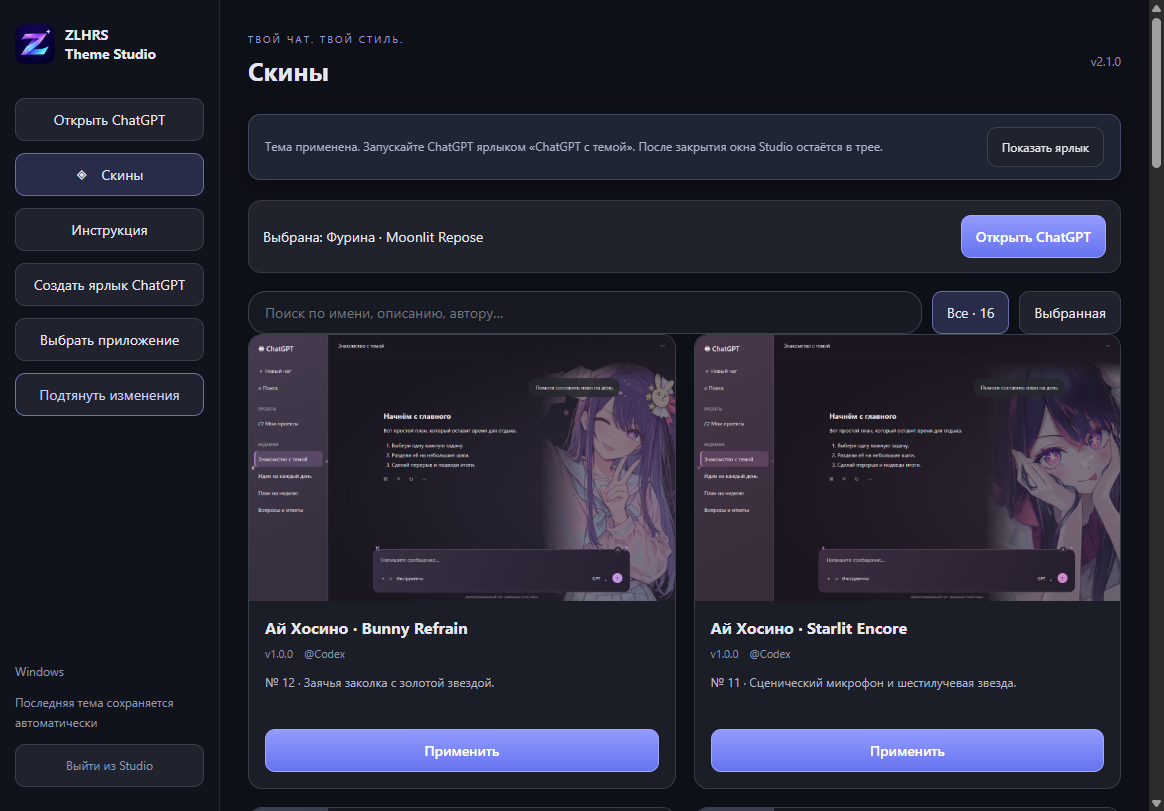
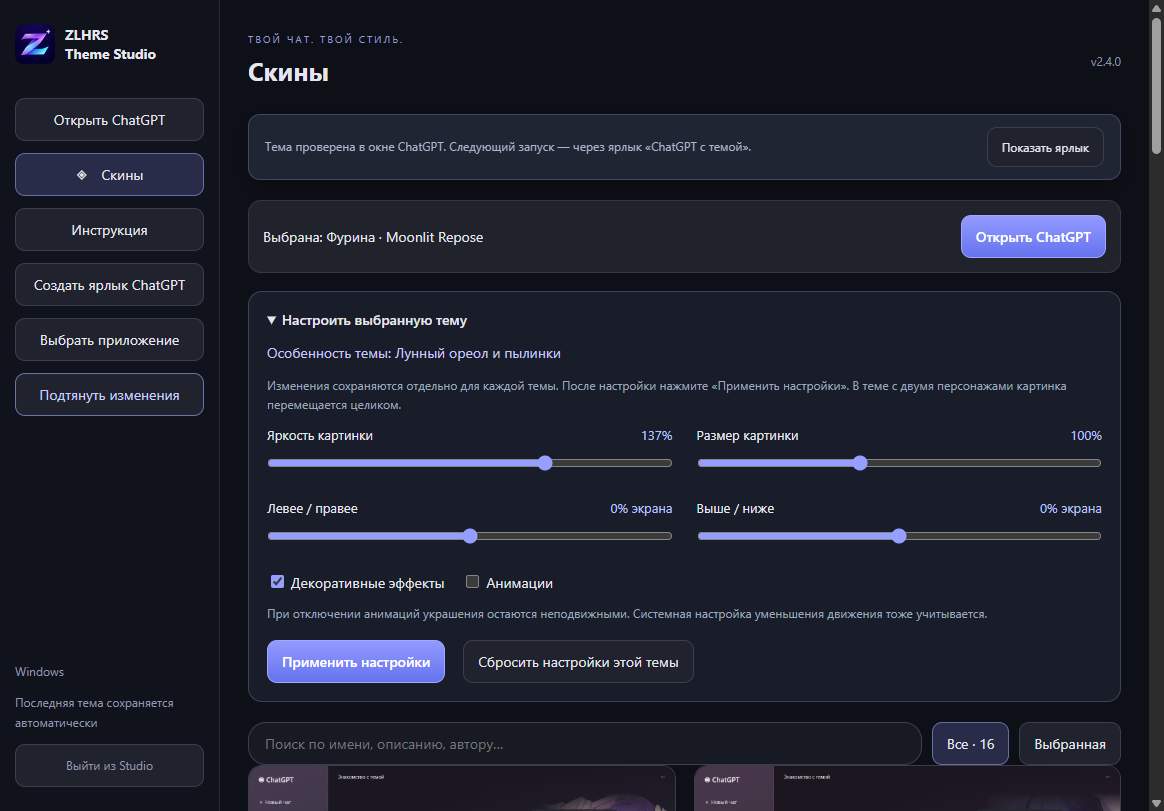
Add individual theme effects and persistent appearance controls

diff --git a/desktop/index.html b/desktop/index.html
@@ -1,7 +1,12 @@
 <!doctype html><html lang="ru"><head><meta charset="utf-8"><meta name="viewport" content="width=device-width,initial-scale=1"><meta http-equiv="Content-Security-Policy" content="default-src 'self'; img-src 'self' file:; style-src 'self'; script-src 'self'; connect-src 'none'"><title>ZLHRS Theme Studio</title><link rel="stylesheet" href="style.css"></head><body>
 <aside><div class="brand"><img src="../assets/studio-logo.png" alt=""><strong>ZLHRS<br>Theme Studio</strong></div><button id="launch">Открыть ChatGPT</button><button id="skins-tab" class="selected" aria-selected="true">◈　Скины</button><button id="help-tab" aria-selected="false">Инструкция</button><button id="shortcut">Создать ярлык ChatGPT</button><button id="choose">Выбрать приложение</button><button id="update">Подтянуть изменения</button><div class="aside-bottom"><p id="platform"></p><p>Последняя тема сохраняется автоматически</p><button id="quit">Выйти из Studio</button></div></aside>
-<main><header><div><span class="eyebrow">ТВОЙ ЧАТ. ТВОЙ СТИЛЬ.</span><h1 id="page-title">Скины</h1></div><span id="version"></span></header><div class="notice" role="status"><span id="status"></span><button id="reveal" hidden>Показать ярлык</button></div><div id="skins-page"><div class="current"><span id="current"></span><button class="primary" id="open">Открыть ChatGPT</button></div><div class="tools"><input id="search" placeholder="Поиск по имени, описанию, автору…" aria-label="Поиск тем"><button id="all" class="selected">Все · 16</button><button id="active">Выбранная</button></div><section id="cards" aria-label="Темы"></section></div><section id="help-page" hidden>
-<div class="help-card"><h2>Как поставить тему</h2><p>Распакуйте готовый ZIP целиком и откройте ZLHRS Theme Studio.exe. Установка не нужна. Все файлы папки должны оставаться рядом.</p><ol><li>Полностью закройте ChatGPT перед первым запуском с темой.</li><li>Откройте вкладку <strong>«Скины»</strong> и нажмите <strong>«Применить»</strong> на понравившейся теме.</li><li>Нажмите <strong>«Создать ярлык ChatGPT»</strong>. Кнопка <strong>«Показать ярлык»</strong> поможет найти его.</li><li>В дальнейшем открывайте <strong>«ChatGPT с темой»</strong> с рабочего стола — последняя тема включится сама.</li></ol></div>
+<main><header><div><span class="eyebrow">ТВОЙ ЧАТ. ТВОЙ СТИЛЬ.</span><h1 id="page-title">Скины</h1></div><span id="version"></span></header><div class="notice" role="status"><span id="status"></span><button id="reveal" hidden>Показать ярлык</button></div><div id="skins-page"><div class="current"><span id="current"></span><button class="primary" id="open">Открыть ChatGPT</button></div><details class="appearance-panel" open><summary>Настроить выбранную тему</summary><p id="effect-description"></p><p class="settings-hint">Изменения сохраняются отдельно для каждой темы. После настройки нажмите «Применить настройки». В теме с двумя персонажами картинка перемещается целиком.</p><div class="appearance-grid">
+<label>Яркость картинки <output id="brightness-value">100%</output><input id="brightness" type="range" min="40" max="180" value="100"></label>
+<label>Размер картинки <output id="size-value">100%</output><input id="size" type="range" min="60" max="160" value="100"></label>
+<label>Левее / правее <output id="x-value">0</output><input id="x" type="range" min="-40" max="40" value="0"></label>
+<label>Выше / ниже <output id="y-value">0</output><input id="y" type="range" min="-40" max="40" value="0"></label>
+</div><div class="appearance-switches"><label><input id="effects" type="checkbox" checked> Декоративные эффекты</label><label><input id="animations" type="checkbox" checked> Анимации</label></div><p class="settings-hint">При отключении анимаций украшения остаются неподвижными. Системная настройка уменьшения движения тоже учитывается.</p><div class="appearance-actions"><button id="save-appearance" class="primary">Применить настройки</button><button id="reset-appearance">Сбросить настройки этой темы</button><span id="appearance-dirty" role="status"></span></div></details><div class="tools"><input id="search" placeholder="Поиск по имени, описанию, автору…" aria-label="Поиск тем"><button id="all" class="selected">Все · 16</button><button id="active">Выбранная</button></div><section id="cards" aria-label="Темы"></section></div><section id="help-page" hidden>
+<div class="help-card"><h2>Как поставить тему</h2><p>Распакуйте готовый ZIP целиком и откройте ZLHRS Theme Studio.exe. Установка не нужна. Все файлы папки должны оставаться рядом.</p><ol><li>В Windows Studio сама перезапустит ChatGPT, если это необходимо. Сохраните неотправленный текст. На Mac и Linux перед первым применением закройте ChatGPT.</li><li>Откройте вкладку <strong>«Скины»</strong> и нажмите <strong>«Применить»</strong> на понравившейся теме.</li><li>Нажмите <strong>«Создать ярлык ChatGPT»</strong>. Кнопка <strong>«Показать ярлык»</strong> поможет найти его.</li><li>В дальнейшем открывайте <strong>«ChatGPT с темой»</strong> с рабочего стола — последняя тема включится сама.</li></ol></div>
 <div class="help-card"><h2>Как обновиться</h2><p>Нажмите <strong>«Подтянуть изменения»</strong>. Если есть новый выпуск, Studio скачает его, проверит файл, установит и перезапустится. Выбранная тема сохранится.</p><p>Если установлена последняя версия, приложение сообщит об этом и останется открытым. Обновления — готовые выпуски с GitHub, а не незавершённые изменения исходников.</p><p>В Linux при установке DEB система может попросить пароль. Если папка приложения на Mac недоступна для записи, потребуется установить обновление вручную.</p></div>
 <div class="help-card"><h2>Если не запускается</h2><p>Нажмите <strong>«Выбрать приложение»</strong> и укажите установленный ChatGPT. Не выбирайте Codex CLI. Если ChatGPT уже открыт обычным способом, полностью закройте его и повторите запуск здесь.</p><p>Старый значок ChatGPT на панели задач замените новым. Codex App Manager и прежнюю версию Theme Studio закройте, чтобы они не меняли тему одновременно.</p><p>Крестик скрывает Studio в трей. Чтобы полностью завершить работу, нажмите <strong>«Выйти из Studio»</strong>.</p></div>
 </section><footer id="app-path"></footer></main>

diff --git a/desktop/renderer.js b/desktop/renderer.js
@@ -1,6 +1,6 @@
-const $=id=>document.getElementById(id);let state,onlyActive=false,pending=false;
+const $=id=>document.getElementById(id);let state,onlyActive=false,pending=false,appearanceTheme=null,appearanceDirty=false;
 function element(tag,text,className){const el=document.createElement(tag);if(text)el.textContent=text;if(className)el.className=className;return el;}
-function render(next){state=next;const chosen=state.themes.find(t=>t.id===state.selected);$('current').textContent='Выбрана: '+chosen.name;$('status').textContent=state.status;$('reveal').hidden=!state.lastShortcut;$('update').disabled=!!state.updating;$('update').textContent=state.updating?'Обновляем…':'Подтянуть изменения';$('version').textContent='v'+state.version;$('platform').textContent={win32:'Windows',darwin:'macOS',linux:'Linux'}[state.platform]||state.platform;$('app-path').textContent=state.appPath?'Приложение: '+state.appPath:'ChatGPT не найден автоматически. Укажите его кнопкой «Выбрать приложение».';cards();}
+function render(next){state=next;renderAppearance();const chosen=state.themes.find(t=>t.id===state.selected);$('current').textContent='Выбрана: '+chosen.name;$('status').textContent=state.status;$('reveal').hidden=!state.lastShortcut;$('update').disabled=!!state.updating;$('update').textContent=state.updating?'Обновляем…':'Подтянуть изменения';$('version').textContent='v'+state.version;$('platform').textContent={win32:'Windows',darwin:'macOS',linux:'Linux'}[state.platform]||state.platform;$('app-path').textContent=state.appPath?'Приложение: '+state.appPath:'ChatGPT не найден автоматически. Укажите его кнопкой «Выбрать приложение».';cards();}
 function cards(){const query=$('search').value.toLocaleLowerCase();$('cards').replaceChildren();for(const t of state.themes){if(onlyActive&&t.id!==state.selected)continue;if(![t.name,t.description,t.author,t.id].join(' ').toLocaleLowerCase().includes(query))continue;
  const card=element('article',null,'card'+(t.id===state.selected?' active':''));const preview=element('button',null,'preview-button');preview.setAttribute('aria-label','Посмотреть '+t.name);const img=element('img');img.src=t.preview;img.alt=t.name;preview.append(img);preview.onclick=()=>{$('preview').querySelector('img').src=t.preview;$('preview').querySelector('p').textContent=t.name+' · демонстрационный чат с настоящими стилями темы';$('preview').showModal();};
  const body=element('div',null,'card-body');body.append(element('h2',t.name),element('div','v'+t.version+'　@'+t.author,'meta'),element('p',t.description,'description'));const apply=element('button',t.id===state.selected?'✓ Выбрана':'Применить','primary');apply.disabled=pending;apply.onclick=()=>applyTheme(t.id);body.append(apply);card.append(preview,body);$('cards').append(card);
@@ -11,3 +11,13 @@ $('search').oninput=cards;$('all').onclick=()=>{onlyActive=false;$('all').classL
 async function runAction(action,message){if(pending||state?.updating)return;pending=true;$('status').textContent=message;try{render(await action());}catch(e){$('status').textContent=e.message;}finally{pending=false;cards();}}
 function page(help){$('skins-page').hidden=help;$('help-page').hidden=!help;$('page-title').textContent=help?'Инструкция':'Скины';for(const [id,active] of [['skins-tab',!help],['help-tab',help]]){$(id).classList.toggle('selected',active);$(id).setAttribute('aria-selected',String(active));}window.scrollTo(0,0);}
 $('skins-tab').onclick=()=>page(false);$('help-tab').onclick=()=>page(true);$('update').onclick=()=>runAction(()=>window.studio.update(),'Проверяем обновления…');$('reveal').onclick=()=>window.studio.reveal();
+
+const appearanceKeys=['brightness','size','x','y'];
+function readAppearance(){return Object.fromEntries([...appearanceKeys.map(key=>[key,Number($(key).value)]),['animations',$('animations').checked],['effects',$('effects').checked]]);}
+function updateAppearanceLabels(){for(const key of appearanceKeys)$(key+'-value').textContent=$(key).value+(['size','brightness'].includes(key)?'%':'% экрана');}
+function setAppearance(value){for(const key of appearanceKeys)$(key).value=value[key];$('animations').checked=value.animations;$('effects').checked=value.effects;updateAppearanceLabels();}
+function renderAppearance(){if(appearanceTheme!==state.selected||!appearanceDirty){setAppearance(state.appearance);appearanceTheme=state.selected;appearanceDirty=false;$('appearance-dirty').textContent='';}$('effect-description').textContent='Особенность темы: '+state.effect;}
+for(const key of [...appearanceKeys,'animations','effects'])$(key).oninput=()=>{appearanceDirty=true;updateAppearanceLabels();$('appearance-dirty').textContent='Есть несохранённые изменения';};
+async function saveAppearance(value){if(pending)return;await runAction(async()=>{const next=await window.studio.appearance(state.selected,value);appearanceDirty=false;return next;},'Сохраняем настройки темы…');}
+$('save-appearance').onclick=()=>saveAppearance(readAppearance());
+$('reset-appearance').onclick=()=>saveAppearance({brightness:100,size:100,x:0,y:0,animations:true,effects:true});

diff --git a/desktop/style.css b/desktop/style.css
@@ -1,3 +1,5 @@
 :root{color-scheme:dark;font:14px 'Segoe UI',system-ui,sans-serif;color:#e6e7ee;background:#0e1017}*{box-sizing:border-box}body{margin:0;display:flex}button,input{font:inherit;color:inherit}button{cursor:pointer;background:#20232d;border:1px solid #3a3f4d;border-radius:10px;padding:11px 14px}button:hover{filter:brightness(1.2)}button:disabled{opacity:.5;cursor:wait}button:focus-visible,input:focus-visible{outline:2px solid #a2a7ff;outline-offset:3px}aside{width:220px;flex-shrink:0;background:#11131c;border-right:1px solid #252936;padding:24px 15px;height:100vh;position:sticky;top:0;display:flex;flex-direction:column;gap:12px}.brand{display:flex;align-items:center;gap:10px;margin-bottom:22px}.brand img{width:40px;height:40px}.aside-bottom{margin-top:auto;font-size:12px;color:#9198ac;line-height:1.6}.aside-bottom button{width:100%}main{flex:1;min-width:0;padding:28px}header{display:flex;align-items:center;justify-content:space-between;margin-bottom:20px}h1{font-size:25px;margin:7px 0}.eyebrow{font-size:10px;letter-spacing:2px;color:#939bd1}#version{font-size:12px;color:#8b92a6}.current{display:flex;align-items:center;justify-content:space-between;gap:12px;background:#20232c;border:1px solid #343845;border-radius:13px;padding:14px;margin-bottom:18px}.primary{background:linear-gradient(#939aff,#6573ee);border-color:#a2a7ff;color:#fff;font-weight:600}.tools{display:flex;gap:10px}.tools input{min-width:80px;flex:1;background:#171a23;border:1px solid #3c404e;border-radius:18px;padding:11px 16px}.selected{background:#292c48;border-color:#676da7}#status{font-size:12px;color:#aeb6cd;line-height:1.6;min-height:20px}#cards{display:grid;grid-template-columns:repeat(2,minmax(0,1fr));gap:18px}.card{background:#1b1e27;border:1px solid #383d49;border-radius:14px;overflow:hidden}.card.active{border-color:#929aff}.preview-button{padding:0;border:0;border-radius:0;display:block;width:100%;background:#11131c}.preview-button img{display:block;width:100%;aspect-ratio:1.6;object-fit:contain}.card-body{padding:16px}.card h2{font-size:16px;margin:0 0 8px}.meta{font-size:11px;color:#8c93a7}.description{color:#b1b5c3;line-height:1.6;min-height:44px;font-size:12px}.card .primary{width:100%}footer{font-size:11px;overflow-wrap:anywhere;color:#777f95;padding:22px 0}dialog{width:min(1150px,94vw);padding:14px;border:1px solid #454b65;background:#141721;border-radius:15px}dialog::backdrop{background:#000b}dialog img{display:block;width:100%;max-height:80vh;object-fit:contain}dialog p{color:#aeb6cd;font-size:12px;margin:12px 0 0}#close-preview{position:absolute;right:22px;top:22px;background:#161822dd}@media(max-width:950px){aside{width:190px}main{padding:20px}.tools{flex-wrap:wrap}.tools input{flex-basis:100%}}
 
 [hidden]{display:none!important}.notice{position:sticky;top:12px;z-index:5;display:flex;align-items:center;justify-content:space-between;gap:12px;padding:12px 16px;margin-bottom:20px;border:1px solid #414763;border-radius:12px;background:#202534;box-shadow:0 6px 20px #0004;min-height:52px}.notice #status{margin:0}.notice button{flex-shrink:0;font-size:12px}.help-card{background:#1b1e27;border:1px solid #383d49;border-radius:14px;padding:22px;margin-bottom:18px;line-height:1.8}.help-card h2{font-size:18px;margin:0 0 12px}.help-card p{color:#b9c1d4}.help-card ol{padding-left:22px}.help-card li{padding:6px 0}aside{overflow-y:auto}#update{border-color:#6974aa;color:#c6ceff}
+
+.appearance-panel{background:#191d29;border:1px solid #3b4259;border-radius:14px;padding:18px;margin-bottom:20px}.appearance-panel summary{cursor:pointer;font-weight:600}.appearance-panel #effect-description{color:#c7c8fa}.settings-hint{font-size:12px;color:#9ea8bd;line-height:1.6}.appearance-grid{display:grid;grid-template-columns:1fr 1fr;gap:16px 24px}.appearance-grid label{font-size:13px}.appearance-grid output{float:right;color:#b7c2ff}.appearance-grid input{width:100%;accent-color:#969eff;margin:12px 0}.appearance-switches,.appearance-actions{display:flex;gap:18px;flex-wrap:wrap;align-items:center;margin-top:16px}.appearance-switches input{accent-color:#969eff}.appearance-actions span{font-size:12px;color:#c3b4e9}

diff --git a/README.md b/README.md
@@ -8,15 +8,15 @@
 
 **Для обычного использования клонировать репозиторий не нужно.** Скачайте готовую сборку для своей системы. Git, Node.js и Codex App Manager для её запуска не нужны. Совместимый ChatGPT должен быть установлен отдельно.
 
-Прямые ссылки на **версию 2.3.2**:
+Прямые ссылки на **версию 2.4.0**:
 
 | Система | Скачать | Как запустить |
 | --- | --- | --- |
-| **Windows x64** | [Готовая папка ZIP](https://github.com/ZLHRS/codex-anime-themes/releases/download/v2.3.2/ZLHRS-Theme-Studio-2.3.2-win-x64-portable.zip) | Распакуйте всю папку и откройте **ZLHRS Theme Studio.exe**. Установка не нужна. |
-| **Mac — Apple Silicon (M1/M2/M3/M4 и новее)** | [ZIP для Apple Silicon](https://github.com/ZLHRS/codex-anime-themes/releases/download/v2.3.2/ZLHRS-Theme-Studio-2.3.2-mac-arm64.zip) | Распакуйте архив, перенесите **ZLHRS Theme Studio.app** в «Программы» и откройте. |
-| **Mac — Intel** | [ZIP для Intel](https://github.com/ZLHRS/codex-anime-themes/releases/download/v2.3.2/ZLHRS-Theme-Studio-2.3.2-mac-x64.zip) | Распакуйте архив, перенесите **ZLHRS Theme Studio.app** в «Программы» и откройте. |
-| **Linux x64 — без установки** | [AppImage](https://github.com/ZLHRS/codex-anime-themes/releases/download/v2.3.2/ZLHRS-Theme-Studio-2.3.2-linux-x86_64.AppImage) | В свойствах файла разрешите выполнение как программы, затем запустите его. |
-| **Linux x64 — Debian/Ubuntu** | [Пакет DEB](https://github.com/ZLHRS/codex-anime-themes/releases/download/v2.3.2/ZLHRS-Theme-Studio-2.3.2-linux-amd64.deb) | Установите пакет через менеджер приложений и откройте Studio. |
+| **Windows x64** | [Готовая папка ZIP](https://github.com/ZLHRS/codex-anime-themes/releases/download/v2.4.0/ZLHRS-Theme-Studio-2.4.0-win-x64-portable.zip) | Распакуйте всю папку и откройте **ZLHRS Theme Studio.exe**. Установка не нужна. |
+| **Mac — Apple Silicon (M1/M2/M3/M4 и новее)** | [ZIP для Apple Silicon](https://github.com/ZLHRS/codex-anime-themes/releases/download/v2.4.0/ZLHRS-Theme-Studio-2.4.0-mac-arm64.zip) | Распакуйте архив, перенесите **ZLHRS Theme Studio.app** в «Программы» и откройте. |
+| **Mac — Intel** | [ZIP для Intel](https://github.com/ZLHRS/codex-anime-themes/releases/download/v2.4.0/ZLHRS-Theme-Studio-2.4.0-mac-x64.zip) | Распакуйте архив, перенесите **ZLHRS Theme Studio.app** в «Программы» и откройте. |
+| **Linux x64 — без установки** | [AppImage](https://github.com/ZLHRS/codex-anime-themes/releases/download/v2.4.0/ZLHRS-Theme-Studio-2.4.0-linux-x86_64.AppImage) | В свойствах файла разрешите выполнение как программы, затем запустите его. |
+| **Linux x64 — Debian/Ubuntu** | [Пакет DEB](https://github.com/ZLHRS/codex-anime-themes/releases/download/v2.4.0/ZLHRS-Theme-Studio-2.4.0-linux-amd64.deb) | Установите пакет через менеджер приложений и откройте Studio. |
 
 **Windows ZIP предназначен только для Windows.** Для Mac и Linux используйте соответствующие ссылки. Тип процессора Mac можно посмотреть в меню Apple → «Об этом Mac».
 
@@ -52,6 +52,12 @@
 Кнопка скачивает готовые приложения из **GitHub Releases**, а не выполняет `git pull`. Изменения только в исходниках не устанавливаются: для обновления через кнопку должен быть опубликован новый выпуск.
 
 Во вкладке «Инструкция» внутри приложения доступны короткие шаги настройки.
+
+## Настройки оформления (2.4.0)
+
+В разделе «Настроить выбранную тему» доступны яркость, размер и положение картинки по горизонтали и вертикали. Нажмите **«Применить настройки»**: значения сохранятся отдельно для выбранной темы и восстановятся после перезапуска. **«Сбросить настройки этой темы»** вернёт исходное оформление только для неё. В теме с двумя персонажами обе картинки настраиваются вместе.
+
+У каждой темы свой декоративный эффект: лунный свет, бабочки, цветы, водяные блики, кольца энергии или подсветка деталей. Переключатель **«Анимации»** оставляет эффекты неподвижными; **«Декоративные эффекты»** полностью отключает добавленные украшения. Системная настройка уменьшения движения также учитывается. Настройки включены в готовые сборки 2.4.0.
 
 ## Готовая сборка или исходники — в чём разница
 

diff --git a/docs/TESTING.md b/docs/TESTING.md
@@ -38,3 +38,7 @@
 ## Поле ввода 2.3.3
 
 Все 16 тем проверены в настоящем ChatGPT: значок ::after скрыт, боковые детали скрыты в 14 темах, редактор остаётся доступен, его прокрутка не меняется. В Bunny Refrain сохранены ушки, в Zero Two — рожки. После проверки восстановлена blue-cat-nocturne. По снимкам обрезанный значок и лишние уголки устранены; тёмная полоса над нижним баром ещё видна, несмотря на отключение отдельной фоновой подложки.
+
+## Настройки и эффекты 2.4.0
+
+Добавлены проверки ограничений значений, 16 наборов эффектов, отключения движения и изменения подписи payload при изменении настроек. В настоящем Chromium проверены яркость, размер, сохранение исходного поворота картинки, отключение анимаций и удаление слоя при выключении эффектов. UI smoke-тест меняет ползунок и переключатель через обработчики интерфейса, сохраняет настройки на диск, переключает тему и проверяет независимость значений. Собранная Windows-версия прошла этот же тест. В реальном ChatGPT подтверждены слой эффекта, отсутствие перехвата нажатий, исходная яркость и масштаб активной blue-cat-nocturne.

diff --git a/CHANGELOG.md b/CHANGELOG.md
@@ -1,3 +1,10 @@
+# 2.4.0
+
+- Индивидуальные декоративные эффекты для всех 16 тем.
+- Яркость, размер и положение картинки с отдельным сохранением для каждой темы.
+- Переключатели эффектов и анимаций, сброс настроек выбранной темы.
+- Анимации учитывают системное уменьшение движения.
+
 # 2.3.3
 
 - Убраны обрезаемые декоративные значки над полем ввода во всех 16 темах.
